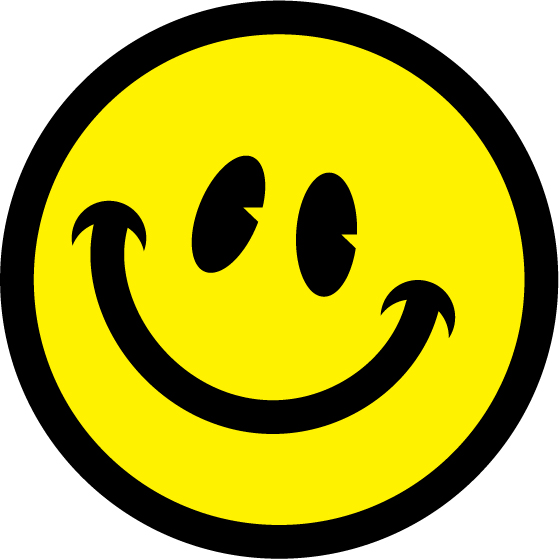
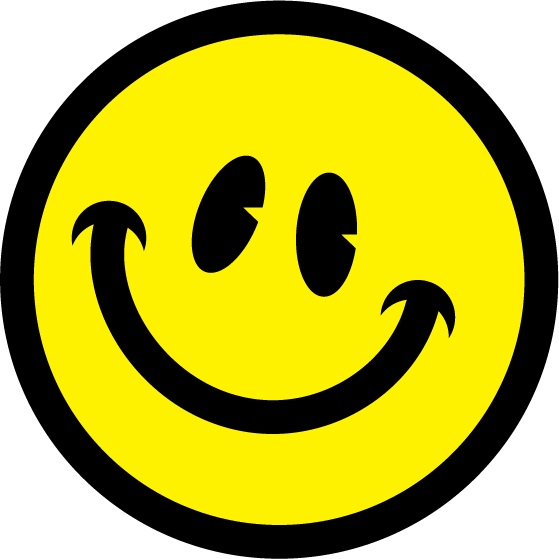
fixed f***ing color space problem...

diff --git a/OpenGL Framework/src/opengl/components/Panel.java b/OpenGL Framework/src/opengl/components/Panel.java
@@ -33,7 +33,7 @@ public class Panel extends Container {
 		position = new Vector2d(x, y);
 		dimension = new Vector2d(w, h);
 		try {
-			t = new Texture("smile.jpg");
+			t = new Texture("smile.png");
 		} catch (IOException e) {
 			e.printStackTrace();
 		}
@@ -42,21 +42,19 @@ public class Panel extends Container {
 	@Override
 	public void renderSelf(Window window) {
 		t.bind();
-		
-	
 
 		glBegin(GL_QUADS);
-			//glTexCoord2f(0, 0);
-			glColor4d(1, 0, 0, 1);
+			glTexCoord2f(0, 0);
+			//glColor4d(1, 0, 0, 1);
 			glVertex2f(-0.5f, 0.5f);
-			//glTexCoord2f(1, 0);
-			glColor4d(0, 1, 0, 1);
+			glTexCoord2f(1, 0);
+			//glColor4d(0, 1, 0, 1);
 			glVertex2f(0.5f, 0.5f);
-			//glTexCoord2f(1, 1);
-			glColor4d(0, 0, 1, 1);
+			glTexCoord2f(1, 1);
+			//glColor4d(0, 0, 1, 1);
 			glVertex2f(0.5f, -0.5f);
-			//glTexCoord2f(0, 1);
-			glColor4d(1, 1, 1, 1);
+			glTexCoord2f(0, 1);
+			//glColor4d(1, 1, 1, 1);
 			glVertex2f(-0.5f, -0.5f);
 		glEnd();
 		

diff --git a/OpenGL Framework/src/opengl/textures/Texture.java b/OpenGL Framework/src/opengl/textures/Texture.java
@@ -1,6 +1,7 @@
 package opengl.textures;
 
 import static org.lwjgl.opengl.GL11.*;
+import static org.lwjgl.opengl.GL12.*;
 
 import java.awt.image.BufferedImage;
 import java.io.File;
@@ -24,7 +25,7 @@ public class Texture {
 		this.height = height;
 		id = glGenTextures();
 		glBindTexture(GL_TEXTURE_2D, id);
-		glTexImage2D(GL_TEXTURE_2D, 0, GL_RGBA, width, height, 0, GL_RGBA, GL_UNSIGNED_BYTE, pixels);
+		glTexImage2D(GL_TEXTURE_2D, 0, GL_RGBA, width, height, 0, GL_BGRA, GL_UNSIGNED_BYTE, pixels);
 		glTexParameteri(GL_TEXTURE_2D, GL_TEXTURE_MIN_FILTER, GL_LINEAR);
 	    glTexParameteri(GL_TEXTURE_2D, GL_TEXTURE_MAG_FILTER, GL_LINEAR);
 		glBindTexture(GL_TEXTURE_2D, 0);
